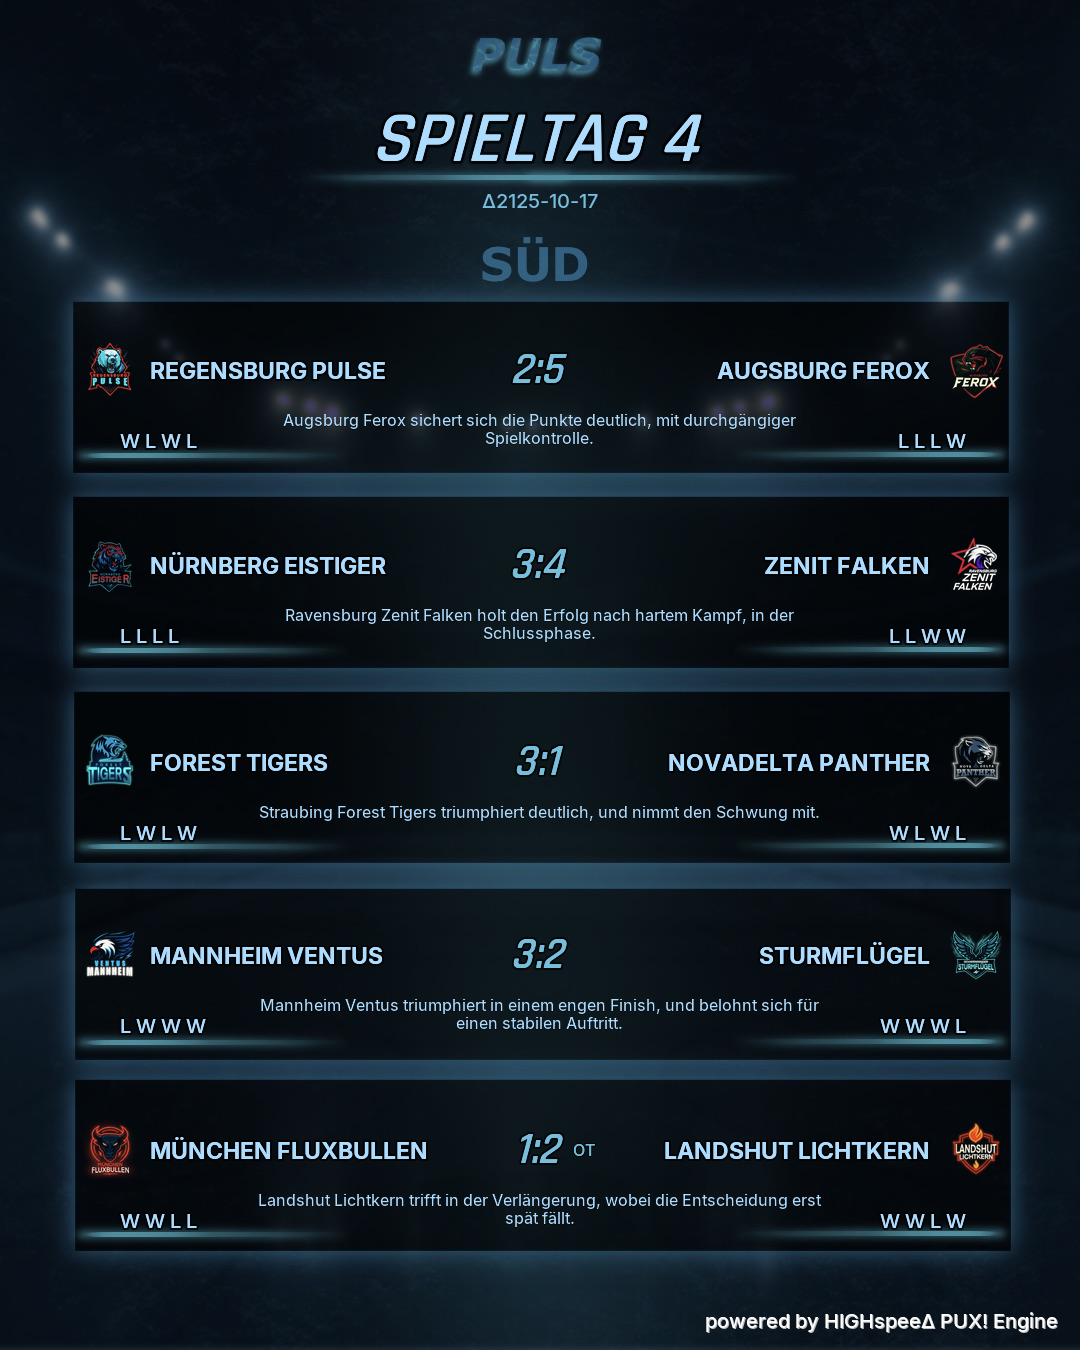
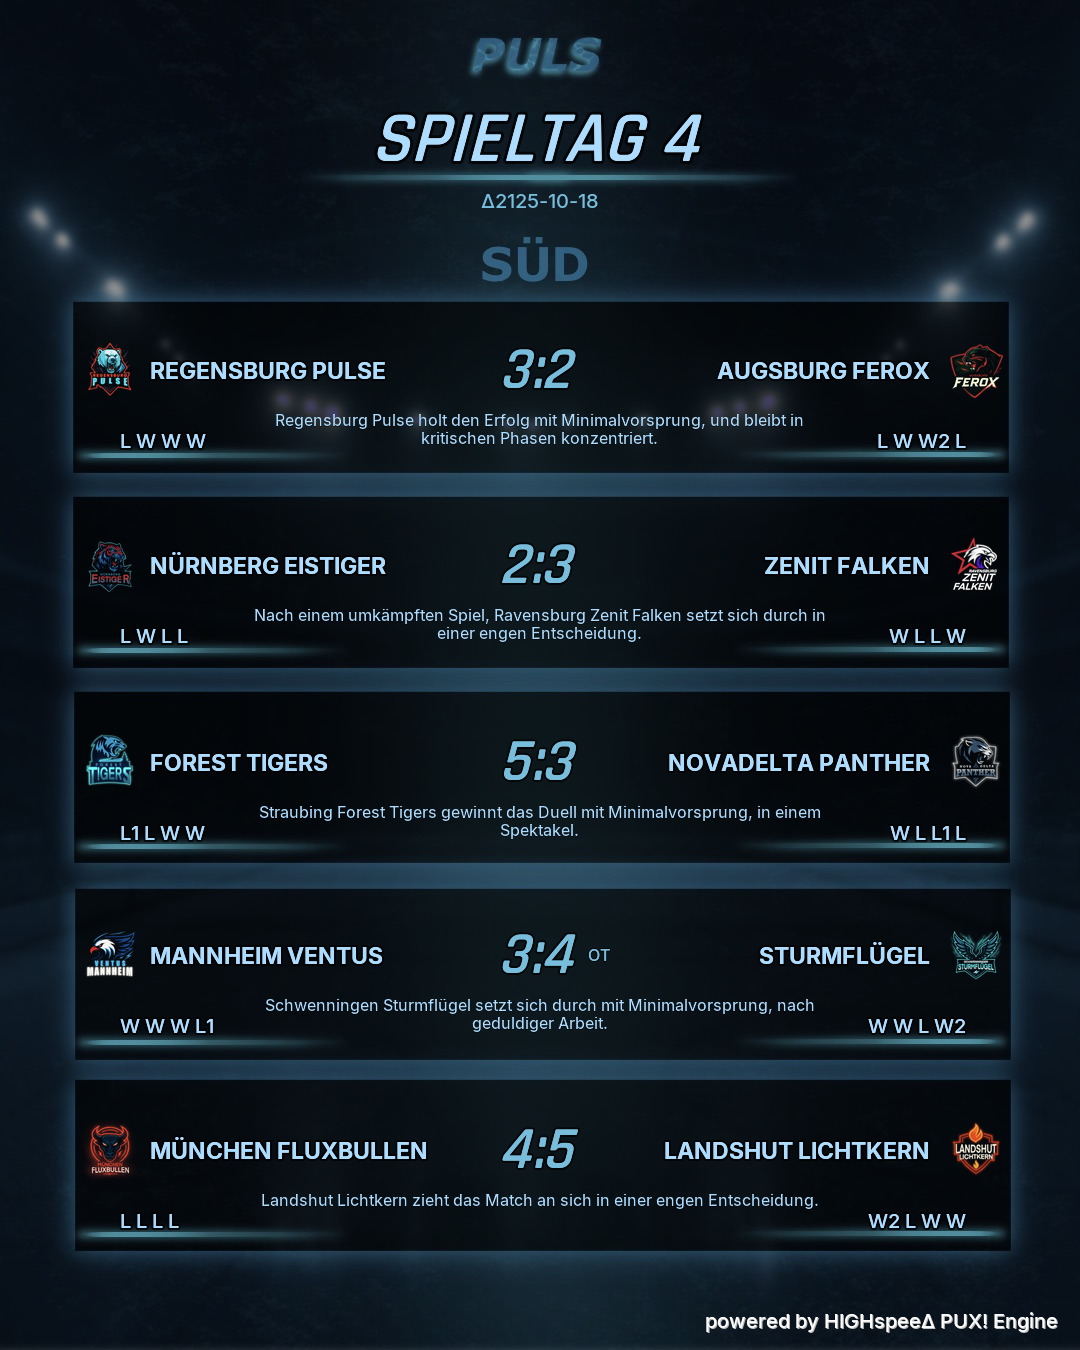
last5 fixed

diff --git a/src/modules/puls_renderer/results_renderer.py b/src/modules/puls_renderer/results_renderer.py
@@ -697,8 +697,9 @@ if __name__ == "__main__":
     toolbox_root = spieltag_path.parents[3]  # .../toolbox
     saison = int(spieltag_path.parent.name.split('_')[1])  # saison_01 -> 1
     spieltag = int(spieltag_path.name.split('_')[1].split('.')[0])  # spieltag_01.json -> 1
-    latest_path = toolbox_root / "data" / "stats" / f"saison_{saison:02d}" / "league" / "latest.json"
+    latest_path = toolbox_root / "data" / "stats" / f"saison_{saison:02d}" / "league" / f"after_spieltag_{spieltag:02d}_detail.json"
+    print(f"[DEBUG] last5 latest_path: {latest_path}")
     narratives_path = toolbox_root / "data" / "replays" / f"saison_{saison:02d}" / f"spieltag_{spieltag:02d}" / "narratives.json"
-    
+
     paths = render_from_spieltag_file(spieltag_path, delta_date=delta_date, latest_path=latest_path, narratives_path=narratives_path)
     print(f"Generated: {paths}")

diff --git a/pages/6_✅_PULS_Ergebnisse.py b/pages/6_✅_PULS_Ergebnisse.py
@@ -41,7 +41,8 @@ template_name = st.text_input("Template", value="matchday_results_v1.png")
 toolbox_root = Path(__file__).parents[1]  # .../toolbox
 saison = int(spieltag_path.parent.name.split('_')[1])  # saison_01 -> 1
 spieltag = int(spieltag_path.name.split('_')[1].split('.')[0])  # spieltag_01.json -> 1
-latest_path = toolbox_root / "data" / "stats" / f"saison_{saison:02d}" / "league" / "latest.json"
+latest_path = toolbox_root / "data" / "stats" / f"saison_{saison:02d}" / "league" / f"after_spieltag_{spieltag:02d}_detail.json"
+st.caption(f"[DEBUG] last5 latest_path: {latest_path}")
 narratives_path = toolbox_root / "data" / "replays" / f"saison_{saison:02d}" / f"spieltag_{spieltag:02d}" / "narratives.json"
 
 st.caption(f"Latest: {latest_path}")
